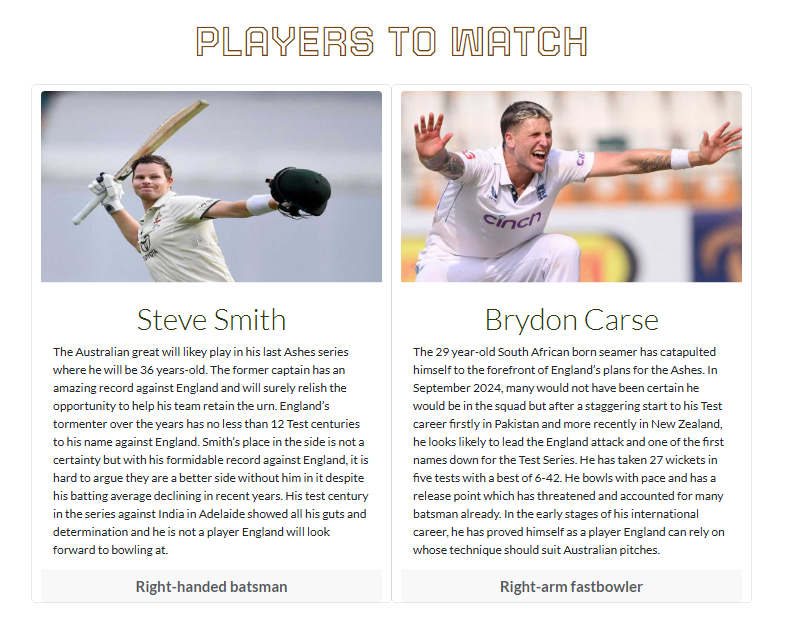
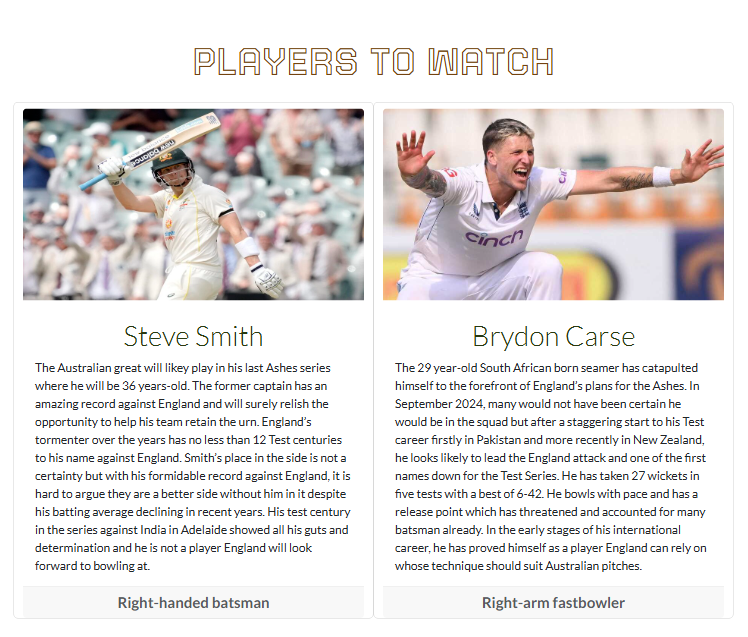
update screenshots for readme

diff --git a/README.md b/README.md
@@ -224,7 +224,7 @@ On Tablets and mobile screens the navbar becomes collapsible
 ### Index Page
 <div align="center">
   <img src="assets/images/read_me/homepage/homepage.png" alt="Large main header">
-  <img src="assets/images/read_me/homepage/homepage1.png" alt="large main section">
+  <img src="assets/images/read_me/homepage/homepage1.png" alt="main section on a tablet">
 </div>
 - I chose an appropriate hero image to display alongside an introduction about the website's focus on desktop devices (see image above).
 - On tablets and smaller devices the hero image and paragraph take up the whole window so that the image of The Ashes is at the forefront of the website
